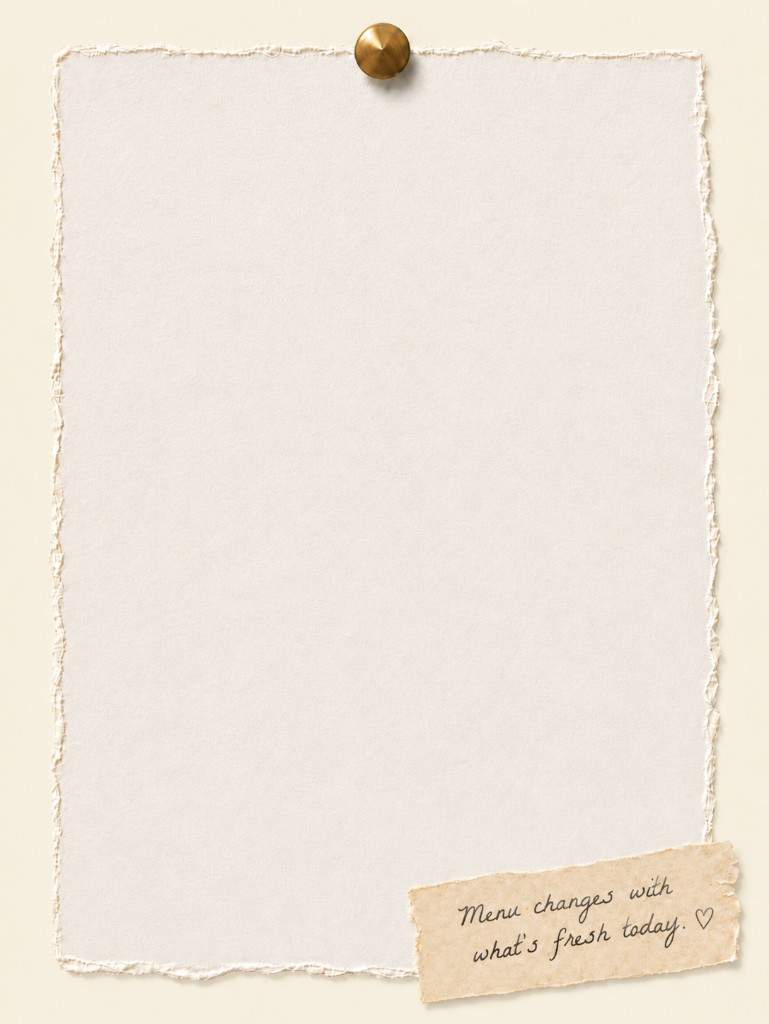
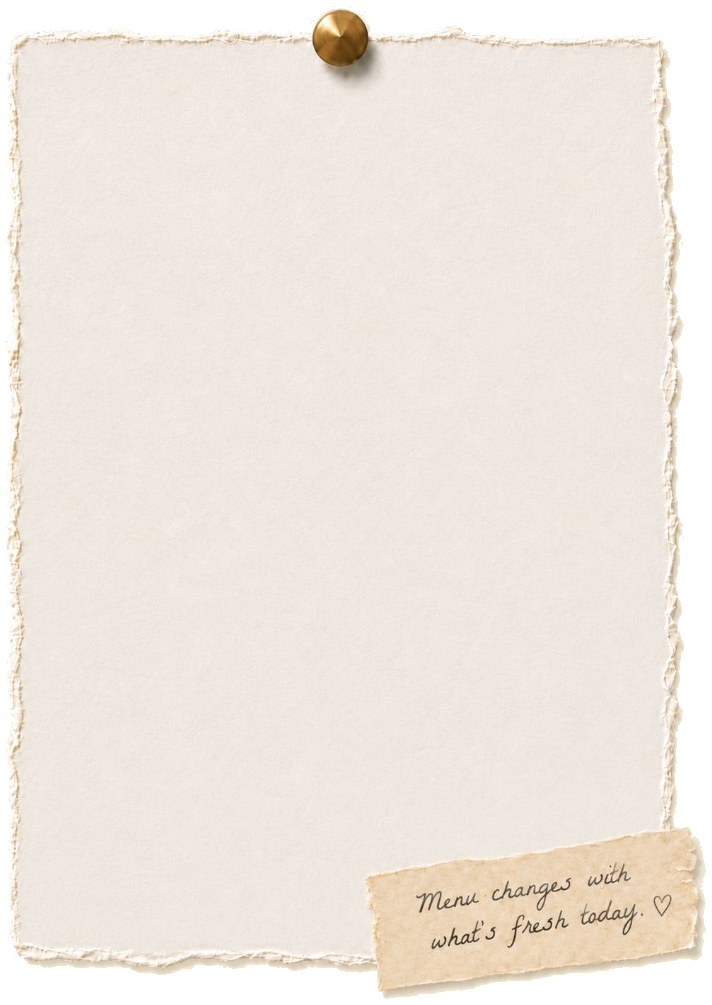
Multiple changes

Changed region(s): [[0.0, 0.0, 1.0, 1.0], [0.0618, 0.2159, 0.0927, 0.802], [0.0618, 0.0925, 0.0927, 0.1851]]

diff --git a/src/components/About.tsx b/src/components/About.tsx
@@ -1,3 +1,4 @@
+import Image from "next/image";
 import { AboutPillarImage } from "@/components/AboutPillarImage";
 import { SketchField } from "@/components/SketchField";
 import { sectionShell } from "@/lib/section";
@@ -8,6 +9,12 @@ const pillars = [
     alt: "Calmo storefront sign with watercolor border",
     title: "Rooted here",
     description: "A neighborhood cafe bar on Dundas West — familiar faces and open doors.",
+    accent: {
+      src: "/about-sketch-heart.png",
+      width: 522,
+      height: 631,
+      className: "mt-3 h-auto w-[1.75rem] sm:w-[2rem]",
+    },
   },
   {
     src: "/about-people.png",
@@ -20,6 +27,12 @@ const pillars = [
     alt: "Baker presenting fresh tray from the Calmo kitchen",
     title: "Made with care",
     description: "House-made desserts and coffee, baked and poured with intention.",
+    accent: {
+      src: "/about-sketch-swoosh.png",
+      width: 772,
+      height: 126,
+      className: "mt-3 h-auto w-[6.75rem] sm:w-[7.25rem]",
+    },
   },
   {
     src: "/about-simple.png",
@@ -38,7 +51,7 @@ export function About() {
             src: "/sketch-plate.png",
             width: 741,
             height: 1024,
-            className: "hidden lg:block -right-24 -bottom-20 w-[22rem] opacity-[0.20]",
+            className: "hidden lg:block -right-24 -bottom-32 w-[22rem] opacity-[0.18]",
           },
           {
             src: "/sketch-dish.png",
@@ -56,7 +69,7 @@ export function About() {
             src: "/sketch-cup.png",
             width: 910,
             height: 1024,
-            className: "hidden lg:block -left-10 -bottom-12 w-[11rem] -rotate-6 opacity-[0.14]",
+            className: "hidden lg:block -left-10 -bottom-28 w-[11rem] -rotate-6 opacity-[0.13]",
           },
         ]}
       />
@@ -70,21 +83,41 @@ export function About() {
             <br />
             A corner of the neighborhood.
           </h2>
-          <div className="mx-auto mt-5 h-px w-12 bg-calmo-blue" />
+          <div className="mx-auto mt-5 flex justify-center sm:mt-6">
+            <Image
+              src="/about-sketch-map.png"
+              alt="Hand-drawn map of Calmo at Dundas St W and Grove Ave"
+              width={855}
+              height={438}
+              unoptimized
+              className="h-auto w-[min(100%,19rem)] sm:w-[22rem] lg:w-[24rem]"
+            />
+          </div>
         </header>
 
-        <div className="mt-6 grid grid-cols-2 gap-x-4 gap-y-10 lg:mt-8 lg:grid-cols-4 lg:gap-x-6">
-          {pillars.map(({ src, alt, title, description }) => (
-            <div key={title} className="flex flex-col items-center text-center">
+        <div className="mt-8 grid grid-cols-2 gap-x-4 gap-y-10 lg:mt-10 lg:grid-cols-4 lg:gap-x-6">
+          {pillars.map((pillar) => (
+            <div key={pillar.title} className="flex flex-col items-center text-center">
               <div className="relative flex min-h-[200px] w-full items-center justify-center sm:min-h-[240px] lg:min-h-[280px]">
-                <AboutPillarImage src={src} alt={alt} />
+                <AboutPillarImage src={pillar.src} alt={pillar.alt} />
               </div>
               <h3 className="mt-4 font-title text-base font-bold text-calmo-burnt-brown sm:text-lg">
-                {title}
+                {pillar.title}
               </h3>
               <p className="mt-2 max-w-[16rem] font-body text-sm leading-relaxed text-calmo-burnt-brown/70">
-                {description}
+                {pillar.description}
               </p>
+              {"accent" in pillar ? (
+                <Image
+                  src={pillar.accent.src}
+                  alt=""
+                  aria-hidden
+                  width={pillar.accent.width}
+                  height={pillar.accent.height}
+                  unoptimized
+                  className={pillar.accent.className}
+                />
+              ) : null}
             </div>
           ))}
         </div>

diff --git a/src/components/MenuPreview.tsx b/src/components/MenuPreview.tsx
@@ -6,6 +6,7 @@ import {
   menuSectionLabels,
   previewMenuItems,
 } from "@/lib/menu";
+import { SketchField } from "@/components/SketchField";
 import { menuSectionSurface, sectionShell } from "@/lib/section";
 import { cn } from "@/lib/utils";
 
@@ -91,7 +92,7 @@ function MenuBoardPhotos() {
 function MenuHighlights() {
   return (
     <div className="relative mx-auto w-full max-w-[24rem] sm:max-w-[26rem] lg:mx-0 lg:-mt-10 lg:max-w-none xl:-mt-12">
-      <div className="@container/paper relative aspect-[769/1024] w-full">
+      <div className="@container/paper relative aspect-[712/1005] w-full">
         <Image
           src="/gallery/menu-counter-paper.png"
           alt=""
@@ -146,6 +147,38 @@ function MenuHighlights() {
 export function MenuPreview() {
   return (
     <section id="menu" className={`${sectionShell} ${menuSectionSurface} relative overflow-x-clip`}>
+      <SketchField
+        items={[
+          {
+            src: "/sketch-dish.png",
+            width: 1024,
+            height: 964,
+            className:
+              "hidden lg:block -left-20 -top-16 w-[14rem] -rotate-6 opacity-[0.08]",
+          },
+          {
+            src: "/sketch-brunch.png",
+            width: 733,
+            height: 1024,
+            className:
+              "hidden lg:block right-[4%] top-[22%] w-[12rem] rotate-6 opacity-[0.07]",
+          },
+          {
+            src: "/sketch-cup.png",
+            width: 910,
+            height: 1024,
+            className:
+              "hidden lg:block left-6 top-[40%] w-[12rem] -rotate-6 opacity-[0.15]",
+          },
+          {
+            src: "/sketch-plate.png",
+            width: 741,
+            height: 1024,
+            className:
+              "hidden lg:block -right-28 -bottom-32 w-[23rem] opacity-[0.18]",
+          },
+        ]}
+      />
       <div className="relative z-10 mx-auto max-w-6xl">
         <header className="max-w-2xl">
           <p className="font-body text-xs font-medium uppercase tracking-[0.28em] text-calmo-red-brown">

diff --git a/src/components/Gallery.tsx b/src/components/Gallery.tsx
@@ -236,7 +236,7 @@ function FreshFromCounterCallout() {
         width={634}
         height={721}
         unoptimized
-        className="h-auto w-[8.75rem] drop-shadow-[0_1px_0_rgba(243,238,215,0.35)] sm:w-[9.75rem] lg:w-[10.25rem]"
+        className="h-auto w-[7rem] drop-shadow-[0_1px_0_rgba(243,238,215,0.35)] sm:w-[7.8rem] lg:w-[8.2rem]"
       />
     </div>
   );
@@ -388,7 +388,19 @@ export function Gallery() {
             src: "/sketch-loops.png",
             width: 844,
             height: 1024,
+            className: "hidden lg:block -left-24 -top-20 w-[22rem] opacity-[0.06]",
+          },
+          {
+            src: "/sketch-loops.png",
+            width: 844,
+            height: 1024,
             className: "hidden lg:block -left-24 -bottom-24 w-[24rem] opacity-[0.07]",
+          },
+          {
+            src: "/sketch-brunch.png",
+            width: 733,
+            height: 1024,
+            className: "hidden lg:block -right-20 -top-16 w-[16rem] rotate-6 opacity-[0.05]",
           },
           {
             src: "/sketch-brunch.png",
@@ -422,19 +434,6 @@ export function Gallery() {
             ))}
           </div>
         </div>
-
-        <p className="mt-12 text-center font-body text-sm text-calmo-burnt-brown/60 lg:mt-14">
-          <Link
-            href={INSTAGRAM_URL}
-            target="_blank"
-            rel="noopener noreferrer"
-            className="font-medium text-calmo-red-brown transition-colors hover:text-calmo-blue"
-          >
-            @calmo.cafebar
-          </Link>
-          {" · "}
-          New posts weekly
-        </p>
       </div>
     </section>
   );
